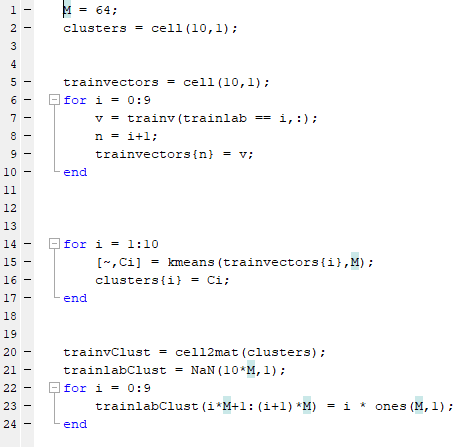
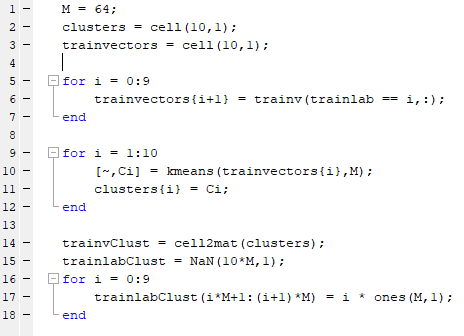
some more small fixes

diff --git a/Task 2/Task2_2_a_Clustering.m b/Task 2/Task2_2_a_Clustering.m
@@ -1,21 +1,15 @@
 M = 64;
 clusters = cell(10,1);
-
-
 trainvectors = cell(10,1);
+
 for i = 0:9
-    v = trainv(trainlab == i,:);
-    n = i+1;
-    trainvectors{n} = v;
+    trainvectors{i+1} = trainv(trainlab == i,:);
 end
-
-
 
 for i = 1:10
     [~,Ci] = kmeans(trainvectors{i},M);
     clusters{i} = Ci;
 end
-
 
 trainvClust = cell2mat(clusters);
 trainlabClust = NaN(10*M,1);

diff --git a/Task 2/Task2_2_c_7NN_Clustering.m b/Task 2/Task2_2_c_7NN_Clustering.m
@@ -13,7 +13,7 @@ Ntrain      = size(trainvClust,1);
 chunkSize   = 1000;
 Nchunks     = Ntrain / chunkSize;
 Nclasses    = 10;
-k           = 7;
+k           = 17;
 
 
 %% Classifier
